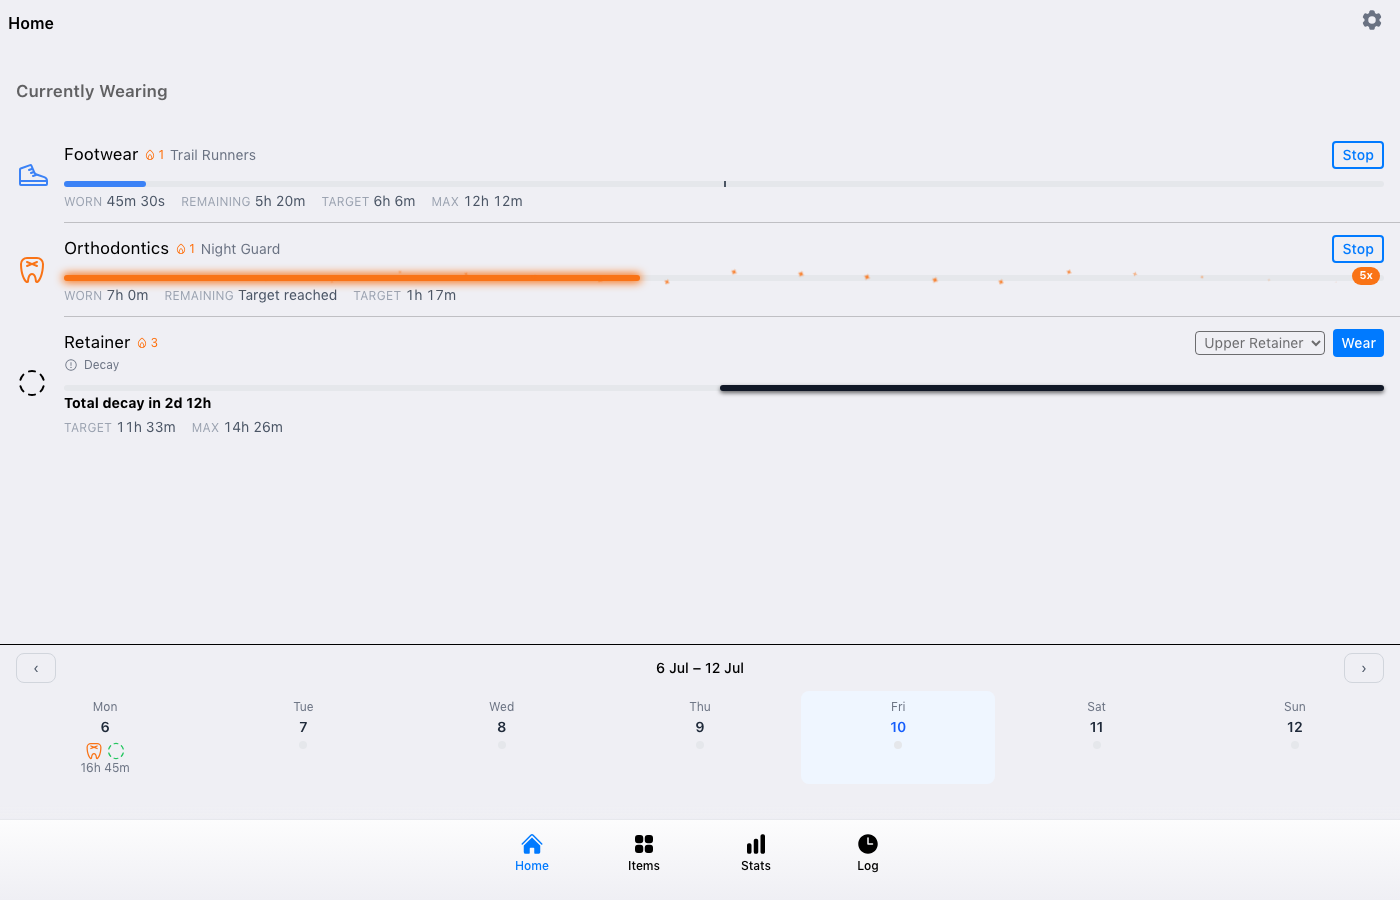
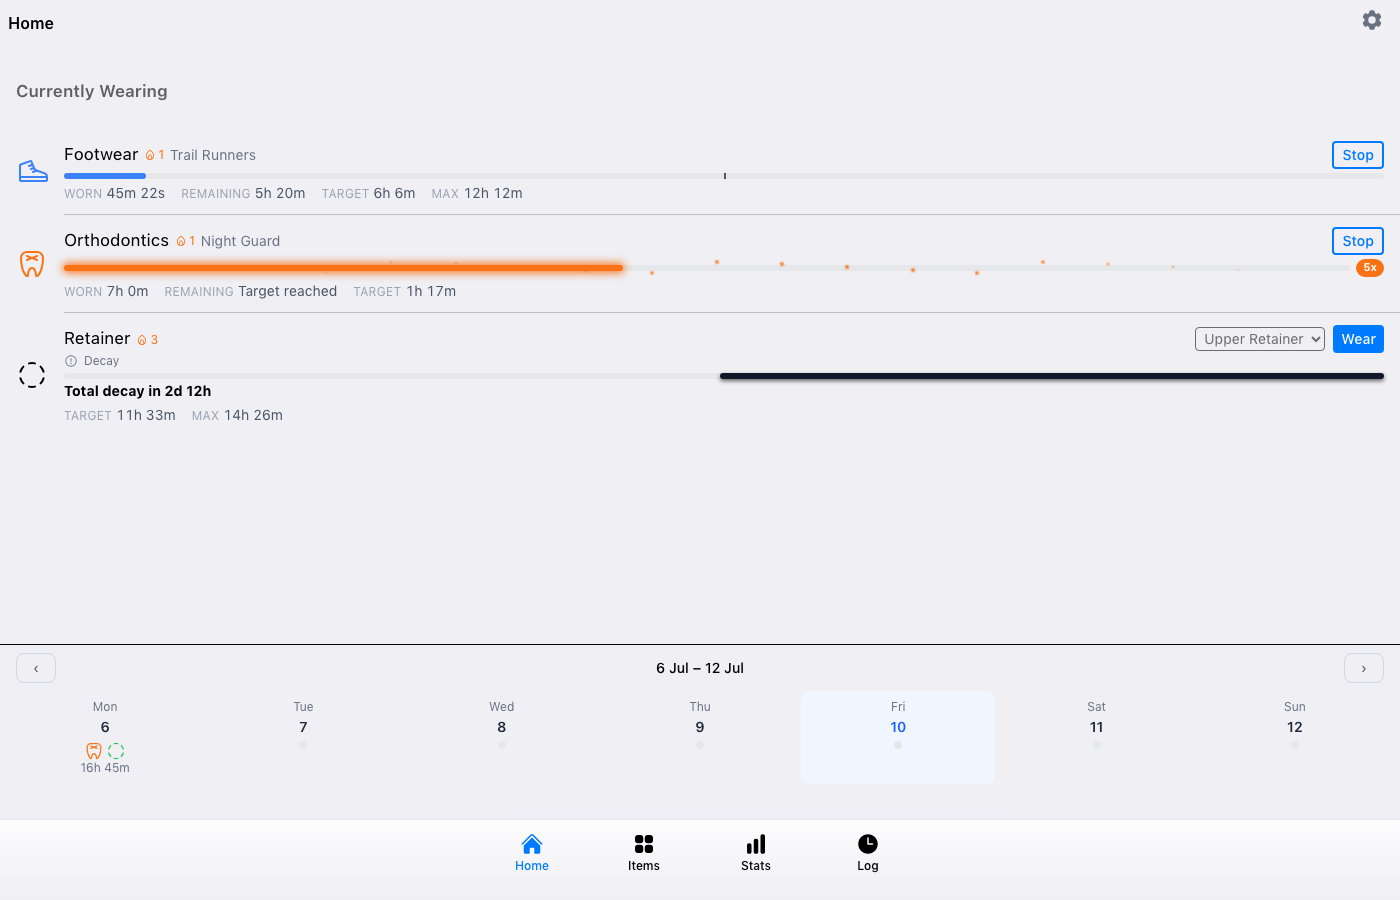
refactor(frontend): lay out lap badge and bar as a flex row instead of absolute overlay

Changed region(s): [[0.0, 0.1867, 0.4607, 0.4978], [0.4914, 0.3422, 1.0, 0.4667], [0.9521, 0.2489, 1.0, 0.3111]]

diff --git a/src/frontend/src/components/WearProgressBar.vue b/src/frontend/src/components/WearProgressBar.vue
@@ -1,26 +1,28 @@
 <template>
   <div class="wear-progress" :class="`tier-${tier}`" :style="{ '--glow-color': barColor }" data-testid="wear-progress-bar">
-    <span v-if="mode === 'wear' && lapCount >= 1" class="lap-badge" data-testid="lap-badge">{{ lapCount }}x</span>
-    <div class="bar-wrap">
-      <div
-        class="bar-fill"
-        :class="{ 'decay-shadow': mode === 'decay', 'decay-anchor-right': mode === 'decay' }"
-        :style="{ width: fillFraction * 100 + '%', background: barColor }"
-      ></div>
-      <div
-        v-if="mode === 'wear' && targetMarkerFraction !== null"
-        class="target-marker"
-        data-testid="target-marker"
-        :style="{ left: targetMarkerFraction * 100 + '%' }"
-      ></div>
-      <div v-if="mode === 'wear' && tier >= 2" class="sparkle-field">
+    <div class="bar-row">
+      <div class="bar-wrap">
         <div
-          v-for="(s, i) in sparkles"
-          :key="i"
-          class="sparkle"
-          :style="{ left: s.left + '%', top: s.top + '%', animationDelay: s.delay + 's' }"
+          class="bar-fill"
+          :class="{ 'decay-shadow': mode === 'decay', 'decay-anchor-right': mode === 'decay' }"
+          :style="{ width: fillFraction * 100 + '%', background: barColor }"
         ></div>
+        <div
+          v-if="mode === 'wear' && targetMarkerFraction !== null"
+          class="target-marker"
+          data-testid="target-marker"
+          :style="{ left: targetMarkerFraction * 100 + '%' }"
+        ></div>
+        <div v-if="mode === 'wear' && tier >= 2" class="sparkle-field">
+          <div
+            v-for="(s, i) in sparkles"
+            :key="i"
+            class="sparkle"
+            :style="{ left: s.left + '%', top: s.top + '%', animationDelay: s.delay + 's' }"
+          ></div>
+        </div>
       </div>
+      <span v-if="mode === 'wear' && lapCount >= 1" class="lap-badge" data-testid="lap-badge">{{ lapCount }}x</span>
     </div>
   </div>
 </template>
@@ -72,13 +74,14 @@ const sparkles = computed(() => generateSparkles(SPARKLE_COUNTS[tier.value]));
 <style scoped>
 .wear-progress {
   position: relative;
-  padding-top: 8px;
+}
+.bar-row {
+  display: flex;
+  align-items: center;
+  gap: 6px;
 }
 .lap-badge {
-  position: absolute;
-  top: 0;
-  right: 4px;
-  z-index: 1;
+  flex: none;
   font-size: 11px;
   font-weight: 700;
   padding: 1px 7px;
@@ -88,6 +91,8 @@ const sparkles = computed(() => generateSparkles(SPARKLE_COUNTS[tier.value]));
 }
 .bar-wrap {
   position: relative;
+  flex: 1;
+  min-width: 0;
   height: 6px;
   border-radius: 999px;
   background: #e5e7eb;
